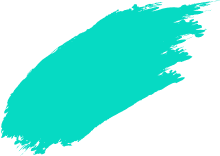
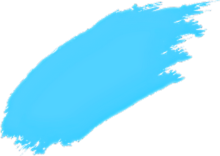
Updated

diff --git a/resources/js/Components/team-details/bod1/bodProfile.vue b/resources/js/Components/team-details/bod1/bodProfile.vue
@@ -25,6 +25,11 @@ const { name, job_title, member_info, description, list_title, lists } = team_de
 
 <template>
   <section class="tp-team-details-area p-relative pt-120 pb-90">
+    <div class="tp-team-details-shape">
+      <img class="shape-1" :src="team_shape_1" alt="image-title-here">
+      <img class="shape-2" :src="team_shape_2" alt="image-title-here">
+    </div>
+
     <div class="container">
       <div class="row">
         <div class="col-lg-4">
